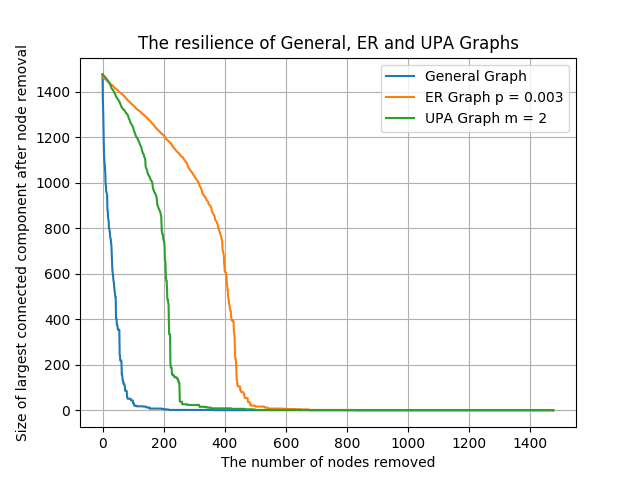
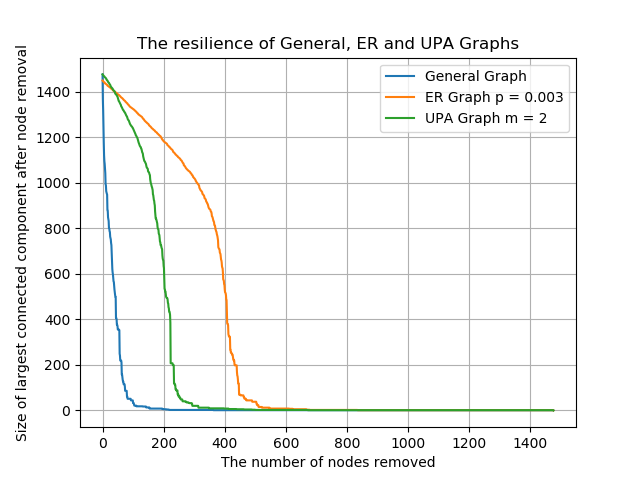
Finito lab2

diff --git a/lab2/ex3.py b/lab2/ex3.py
@@ -14,13 +14,13 @@ Aggiungete una legenda al grafico che permetta di distinguere le tre curve e che
 Allegate il file con la figura nell'apposito spazio.'''
 
 from utils.graphGenerator import graphGenerator
-from utils.resilienceCount import maxCC, DFSVisited
+from utils.resilienceCount import *
 import random
 import matplotlib.pyplot as plp
 from sys import setrecursionlimit
 
 n = 1476
-p = 0.003 #(n archi*100/n^2)
+p = 0.003
 m = 2
 path = "as19991212.txt"
 setrecursionlimit(10000)
@@ -37,34 +37,36 @@ def mostImportantNodeAttack(graph,size_max):
     find = False
 
     # cerca il nodo con la adj_list maggiore, ovvero il nodo piu importante
-    if graph and graph.adj_list:
-        for nodes in graph.adj_list:
-            if find == False: # purtroppo python non supporta i foreach-loop con piu di una condizione ...
-                current_node_size_adj_list = len(graph.adj_list[nodes])
-                if current_node_size_adj_list > m_i_node_size_adj_list:
-                    m_i_node = nodes
-                    m_i_node_size_adj_list = current_node_size_adj_list
-                    m_i_adj_list = graph.adj_list[nodes]
-                # se abbiamo trovato una adj_list di grandezza size_max, allora non serve piu iterare: non possono esistere adj_list maggiori
-                if m_i_node_size_adj_list == size_max:
-                    find = True
+
+    for nodes in graph.adj_list:
+        if find == False:
+            current_node_size_adj_list = len(graph.adj_list[nodes])
+            if current_node_size_adj_list > m_i_node_size_adj_list:
+                m_i_node = nodes
+                m_i_node_size_adj_list = current_node_size_adj_list
+                m_i_adj_list = graph.adj_list[nodes]
+            # se abbiamo trovato una adj_list di grandezza size_max, allora non serve piu iterare: non possono esistere adj_list maggiori
+            if m_i_node_size_adj_list == size_max:
+                find = True
 
     # rimuovo il nodo piu importante da tutte le liste delle adj nel quale compare
     for nodes in m_i_adj_list:
-        if m_i_node in graph.adj_list[nodes]: # TODO: ma questo controllo serve??
-            graph.adj_list[nodes].remove(m_i_node)
+        graph.adj_list[nodes].remove(m_i_node)
 
     # infine rimuovo la chiave corrispondente al nodo piu importante
     graph.adj_list.pop(m_i_node, None)
-    # print("final graph: ",graph.adj_list)
+
     resilience = maxCC(graph)
     return resilience
 
 # invoca mostImportantNodeAttack fino alla disabilitazione totale dei nodi
-def killTheNetwork(graph):
+def killTheNetwork(graph,n):
+    #calcolo la resilienza iniziale
     resilience = [maxCC(graph)]
-    while graph and graph.adj_list:
+    #elimino gli n nodi, calcolando la resilienza ad ogni eliminazione
+    while n > 0:
         resilience.append(mostImportantNodeAttack(graph,n-1))
+        n = n - 1
     return resilience
 
 all_graphs = graphGenerator(path,n,p,m)
@@ -72,9 +74,9 @@ ERgraph = all_graphs.ER_graph
 generalGraph = all_graphs.graph_from_file
 UPAgraph = all_graphs.UPA_graph
 
-resilience_general = killTheNetwork(generalGraph)
-resilience_ER = killTheNetwork(ERgraph)
-resilience_UPA = killTheNetwork(UPAgraph)
+resilience_general = killTheNetwork(generalGraph,n)
+resilience_ER = killTheNetwork(ERgraph,n)
+resilience_UPA = killTheNetwork(UPAgraph,n)
 
 plp.grid()
 plp.plot(resilience_general, label = "General Graph")

diff --git a/lab2/ex1.py b/lab2/ex1.py
@@ -14,13 +14,13 @@ Aggiungete una legenda al grafico che permetta di distinguere le tre curve e che
 Allegate il file con la figura nell'apposito spazio.'''
 
 from utils.graphGenerator import graphGenerator
-from utils.resilienceCount import maxCC, DFSVisited
+from utils.resilienceCount import *
 import random
 import matplotlib.pyplot as plp
 from sys import setrecursionlimit
 
 n = 1476
-p = 0.003#(n archi*100/n^2)
+p = 0.003
 m = 2
 path = "as19991212.txt"
 setrecursionlimit(10000)
@@ -29,13 +29,14 @@ setrecursionlimit(10000)
 def calcResilience(graph):
 
     random_node = random.choice(list(graph.adj_list.keys()))
-
-    for nodes in graph.adj_list[random_node]: #elimino tutti gli archi del nodo
+    #elimino tutti gli archi del nodo
+    for nodes in graph.adj_list[random_node]:
         if random_node in graph.adj_list[nodes]:
             graph.adj_list[nodes].remove(random_node)
-    graph.adj_list.pop(random_node) #elimino il nodo
-
-    return maxCC(graph) #calcolo la nuova resilienza max
+    #elimino il nodo
+    graph.adj_list.pop(random_node)
+    #calcolo la nuova resilienza max
+    return maxCC(graph)
 
 
 #creo i 3 grafi
@@ -55,7 +56,6 @@ for i in range(n):
     resilience_ER.append(calcResilience(ERgraph))
     resilience_UPA.append(calcResilience(UPAgraph))
 
-#print("RESILIENZA _____________________________",  resilience_ER)
 
 plp.grid()
 plp.plot(resilience_general,  label = "General Graph")
